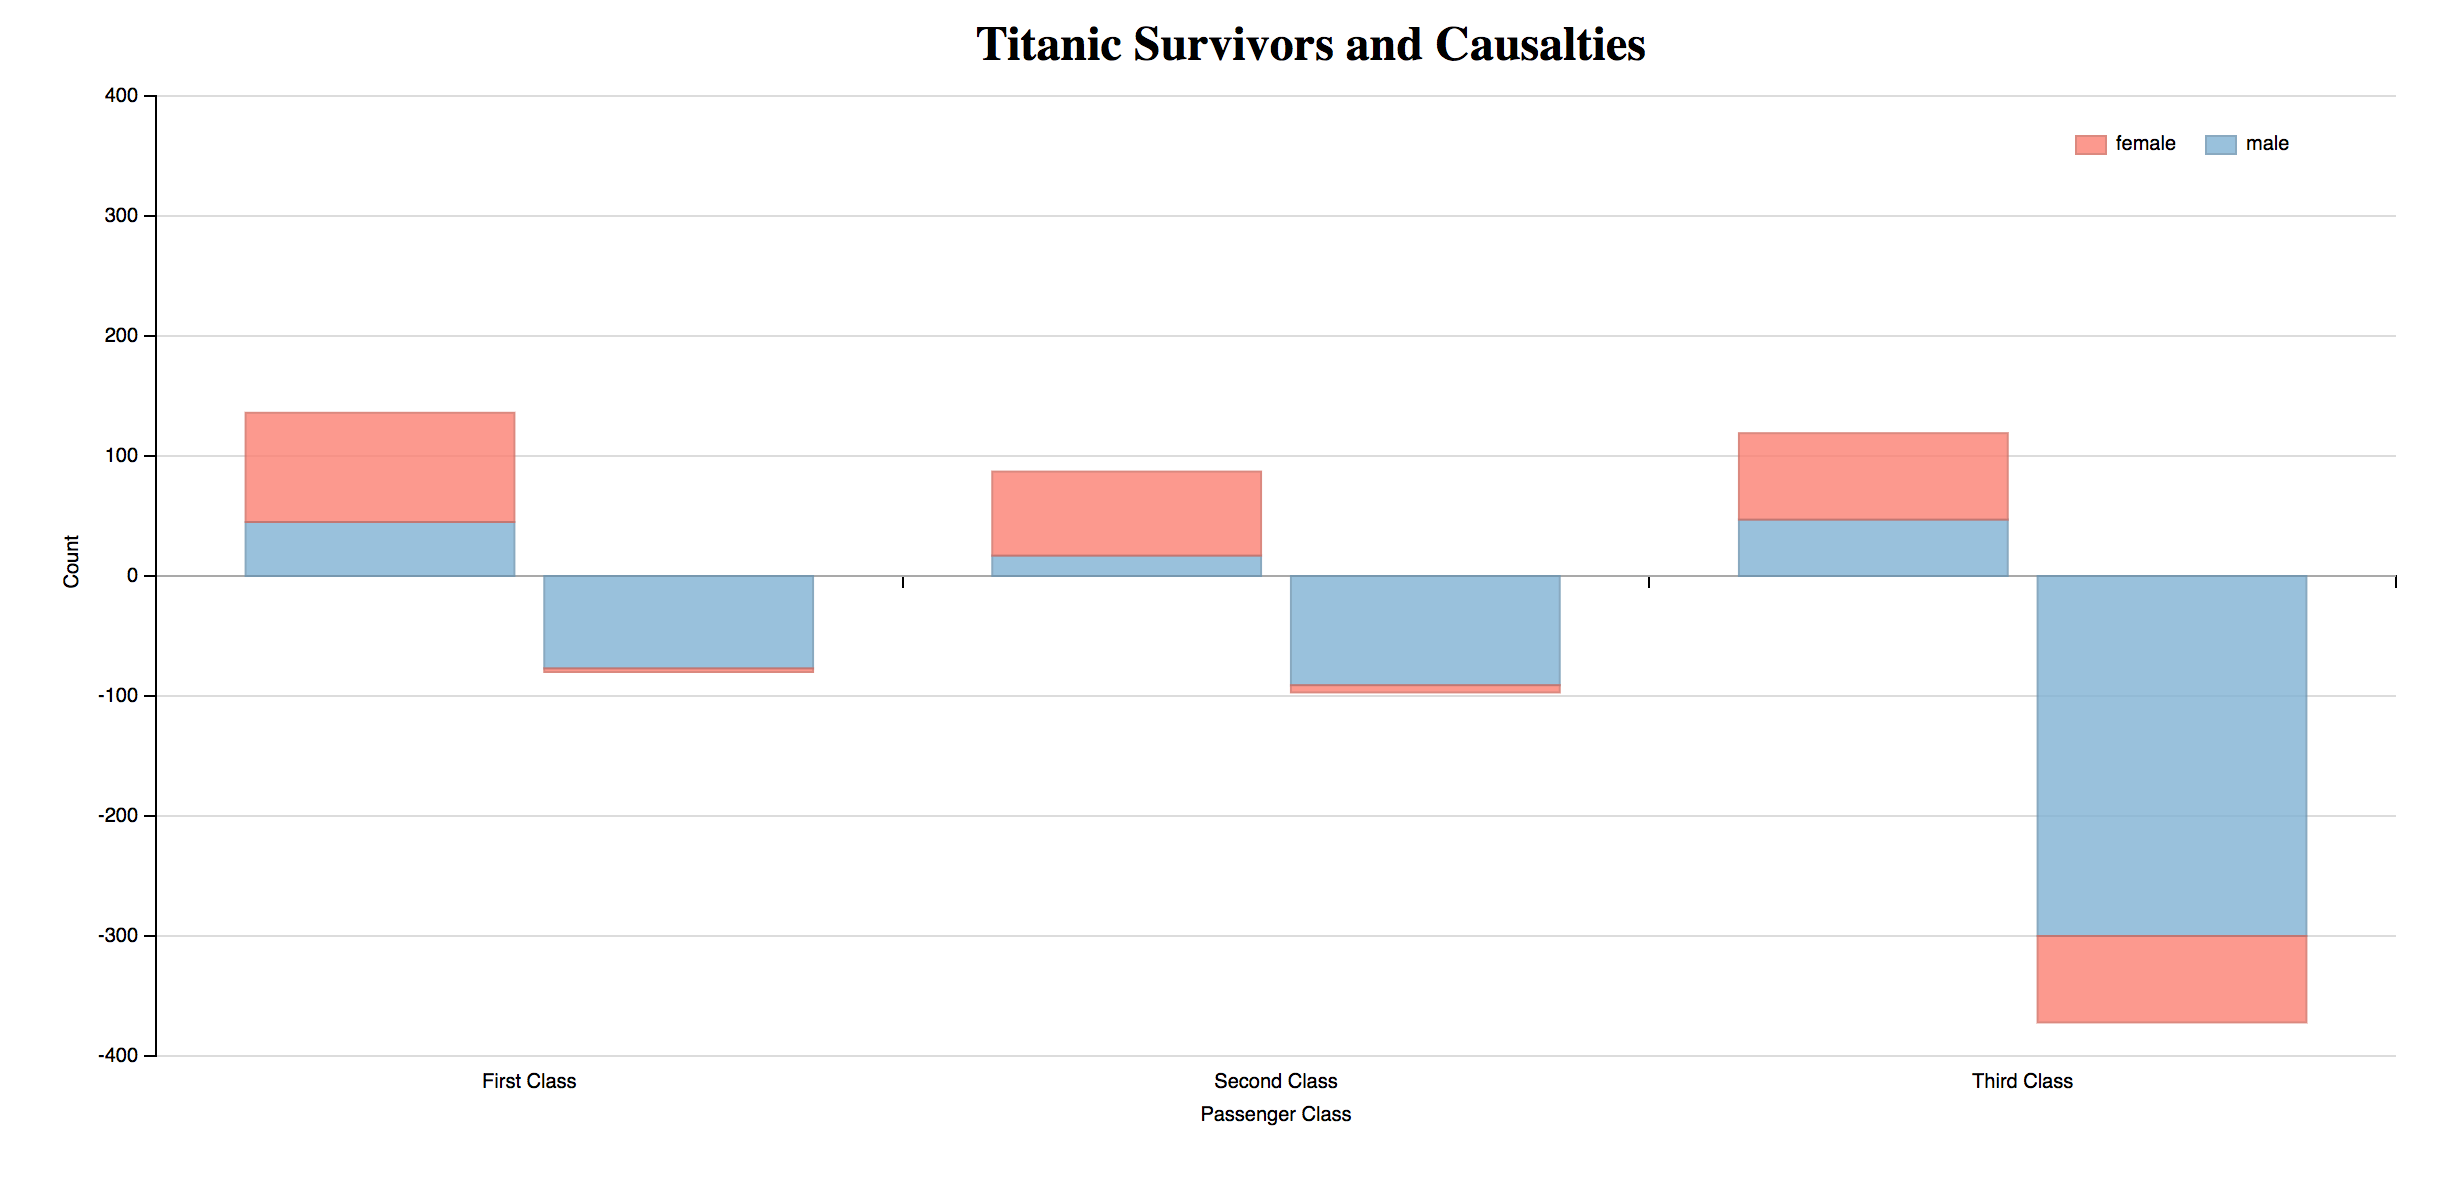
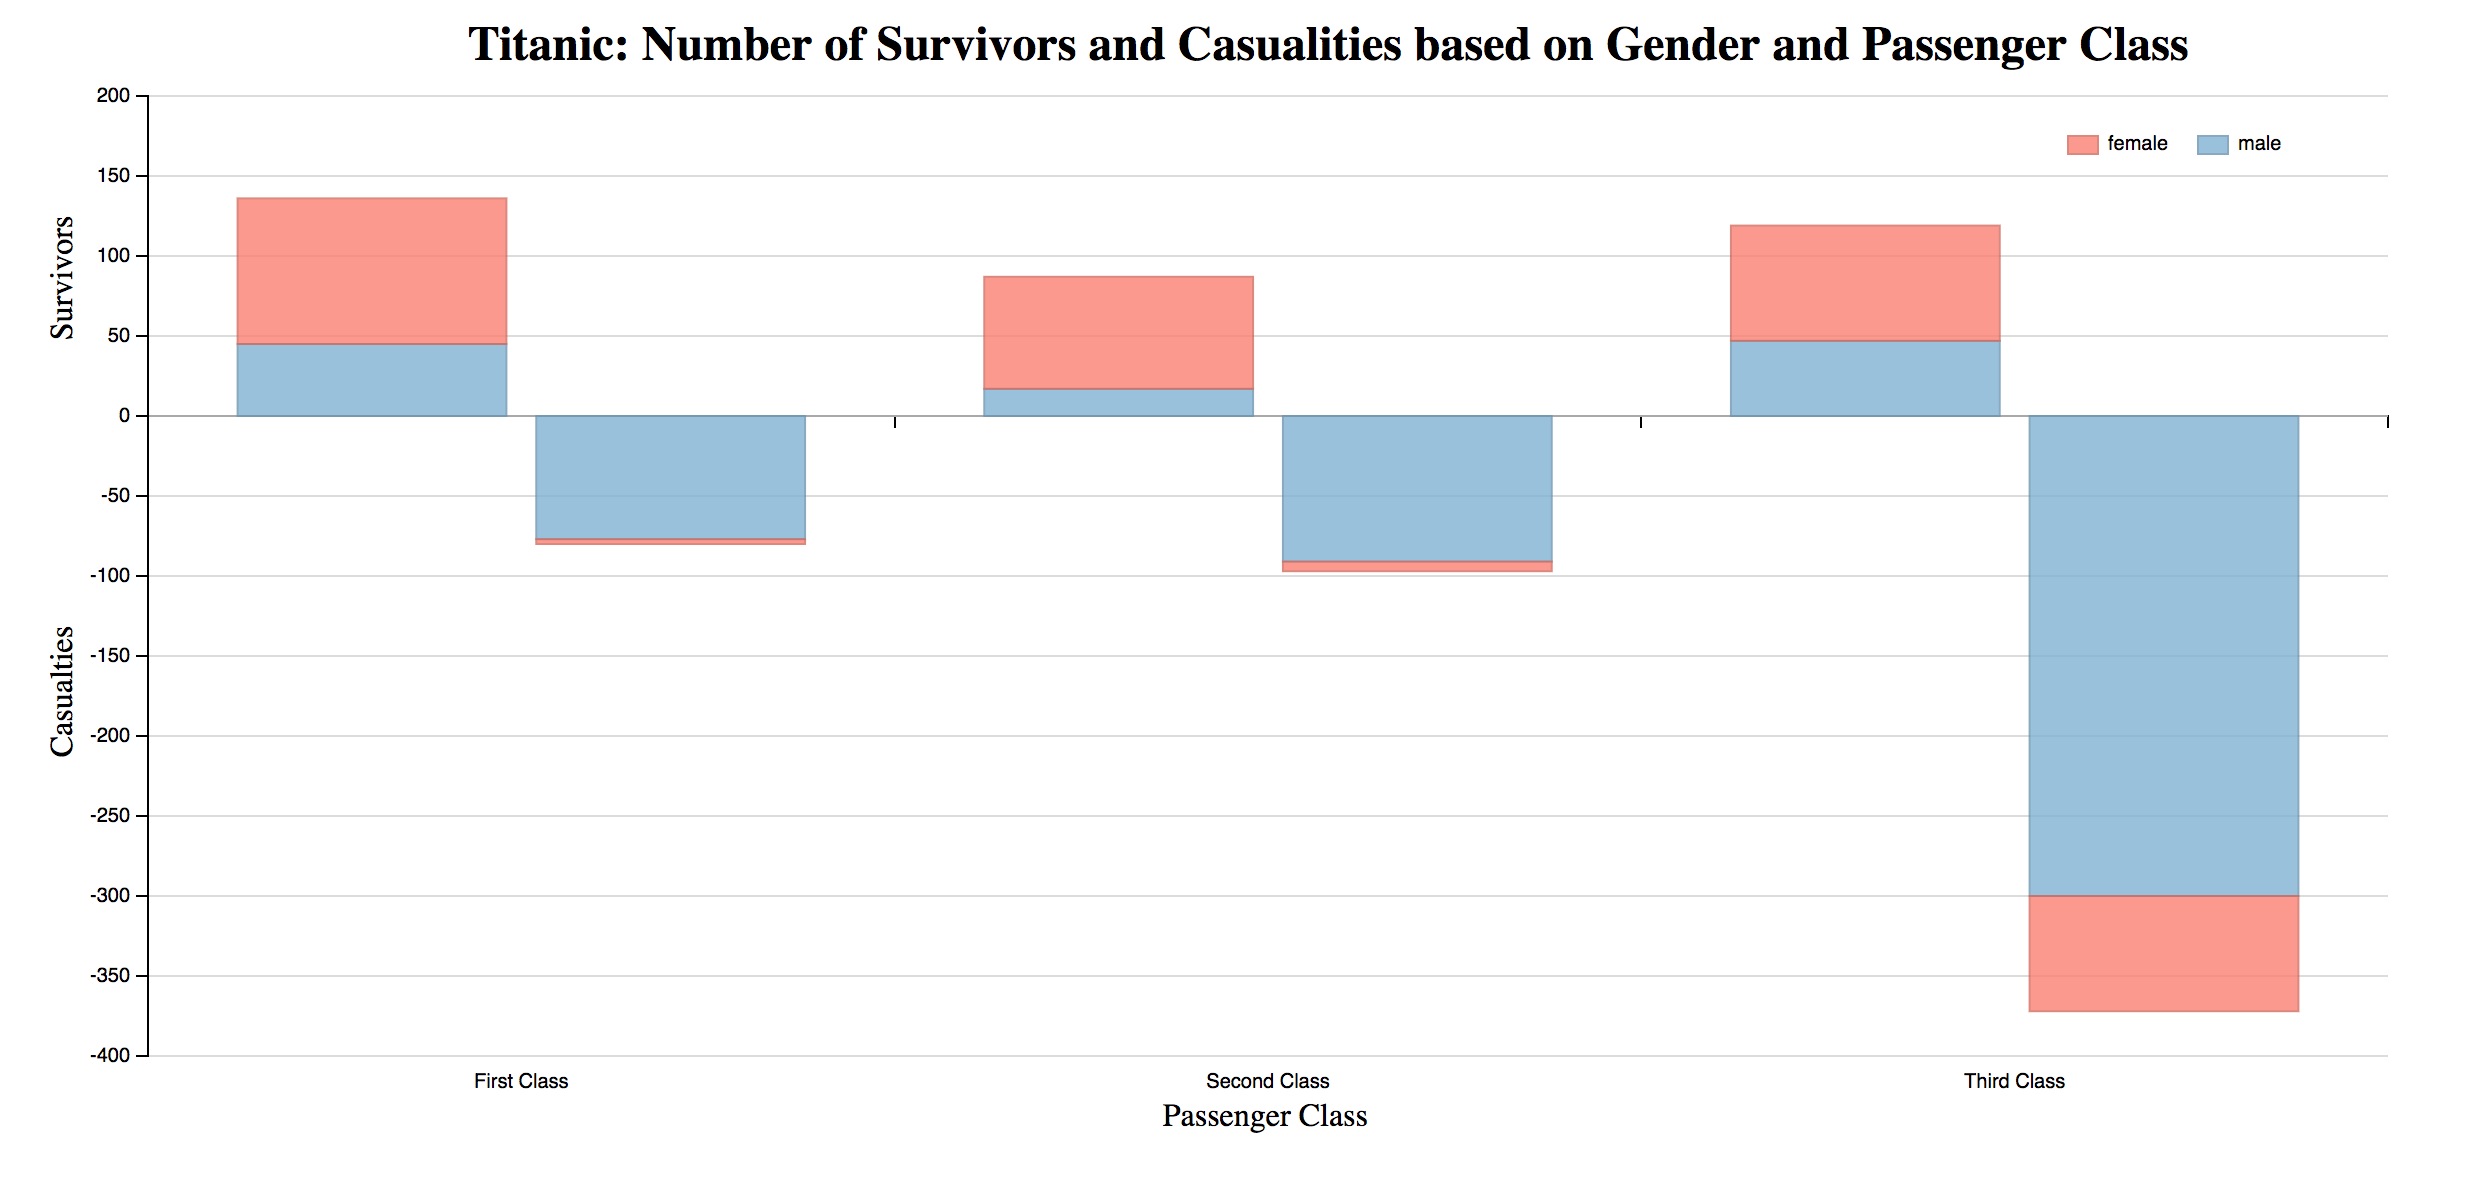
udacity review changes

diff --git a/titanic_v3.html b/titanic_v3.html
@@ -1,0 +1,131 @@
+<!DOCTYPE html>
+<html>
+<head>
+  <meta charset="utf-8">
+  <script src="http://d3js.org/d3.v3.min.js"></script>
+  <script src="http://dimplejs.org/dist/dimple.v2.0.0.min.js"></script>
+  
+  <style>
+	.center_header {
+		position:absolute;
+		margin-left:300px;
+	}
+  .vertical-text {
+    transform: rotate(90deg);
+    transform-origin: left top 0;
+  }
+  </style>
+  
+    <script type="text/javascript">
+      function draw(data) {
+      
+        /*
+          D3.js setup code
+        */
+
+            "use strict";
+            var margin = 75,
+                width = 1400 - margin,
+                height = 600 - margin;
+  			  
+  			//First Chart Title
+  			d3.select("body")
+  				.append("div")
+  				.attr("class","center_header")
+  				//.append("h2").text("Titanic Survivors and Casualties");
+          .append("h2").text("Titanic: Number of Survivors and Casualities based on Gender and Passenger Class");
+  			
+            //Add svg element to page
+            var svg = d3.select("body")
+              .append("svg")
+              .attr("width", width + margin)
+              .attr("height", height + margin)
+              .append('g')
+              .attr('class','chart');
+
+            //x axix label
+            svg.append("text")
+                .attr("class", "x label")
+                .attr("text-anchor", "end")
+                .attr("x", 750)
+                .attr("y", 575)
+                .text("Passenger Class");          
+
+            //y axis first label
+            svg.append("text")
+              .attr("class", "y label")
+              .attr("text-anchor", "end")
+              .attr("x", -120)
+              .attr("y", 90)
+              .attr("dy", ".75em")
+              .attr("transform", "rotate(-90)")
+              .text("Survivors");
+            
+            //y axis second label
+            svg.append("text")
+              .attr("class", "y label")
+              .attr("text-anchor", "end")
+              .attr("x", -325)
+              .attr("y", 90)
+              .attr("dy", ".75em")
+              .attr("transform", "rotate(-90)")
+              .text("Casualties");
+
+        /*
+          Dimple.js Chart construction code
+        */
+  			
+        var myChart = new dimple.chart(svg, data);
+        //myChart.setBounds(60, 60, 500, 330)
+        var x = myChart.addCategoryAxis("x", ["Pclass", "Survived"]); 
+        var y  = myChart.addMeasureAxis("y", ["Survived"]); 
+        //group by sex
+        var mySeries = myChart.addSeries(["Sex"], dimple.plot.bar);
+  		      
+        //add custom ToolTipText
+        mySeries.getTooltipText = function (e) {
+        //debugger;
+  		  return ["Gender: " + e.aggField[0],
+                "Survived: " + ((e.xField[1]) == 1 ? 'Yes' : 'No'),
+  			        "Count: " + e.height,
+  			        "Ticket class: " + e.x
+                ];
+        };
+        
+        //Order by Passenger class
+        x.addOrderRule(["First Class", "Second Class", "Third Class"]);
+        //Add legend
+        myChart.addLegend(850, 80, 380, 200, "right");
+        
+        //we are writing the axis labels with d3, make dimple's y axis null
+        x.title = null;
+        y.title = null;
+
+        //scale coordinates
+        y.overrideMax = 200;
+        y.overrideMin = -400;
+
+        //debugger;
+        myChart.draw();		 
+
+      };
+		
+      </script>
+  </head>
+<body>
+  <script type="text/javascript">
+  /*
+    Use D3 (not dimple.js) to load the TSV file
+    and pass the contents of it to the draw function
+    */
+  d3.csv("titanic_data.csv", function(d) {
+		  d['Survived'] = +d['Survived'], //convert to number
+      d['Survived'] = (d['Survived']) == 0 ? -1 : 1, //substitute 0's with -1 to get count below 0 (casualties)
+		  d['Pclass'] = +d['Pclass'];
+		  d['Pclass'] = (d['Pclass']) == 1 ? "First Class" : (d['Pclass']) ==                             2 ? "Second Class" : "Third Class";
+          return d;
+        },
+  draw);
+  </script>
+</body>
+</html>

diff --git a/README.md b/README.md
@@ -13,6 +13,10 @@ Per my reviewer feedback and additional personal ideas I changed the plot quite 
 - Wrote a custom ToolTip to contain better descriptions.
 - Renamed the axis with clear titles
 - Renamed the pClass variable to read Passenger Class.
+- Added  "Survivors" and "Casualities" label to distinguish between the two different classes (per Udacity Review reviewer comments)
+- Corrected typo in the title (per Udacity Review reviewer comments)
+- Rescaled the y-axis upper boundary to 200 (per Udacity reviewer comments)
+- Change the Tittle to help towards making this visualization explanatory and not exploratory (per Udacity reviewer comments)
 
 
 #### Feedback
@@ -60,4 +64,5 @@ Per my reviewer feedback and additional personal ideas I changed the plot quite 
 
 #### Resources
 https://www.udacity.com/<br>
-http://dimplejs.org/
+http://dimplejs.org/<br>
+http://stackoverflow.com/questions/11189284/d3-axis-labeling<br>
